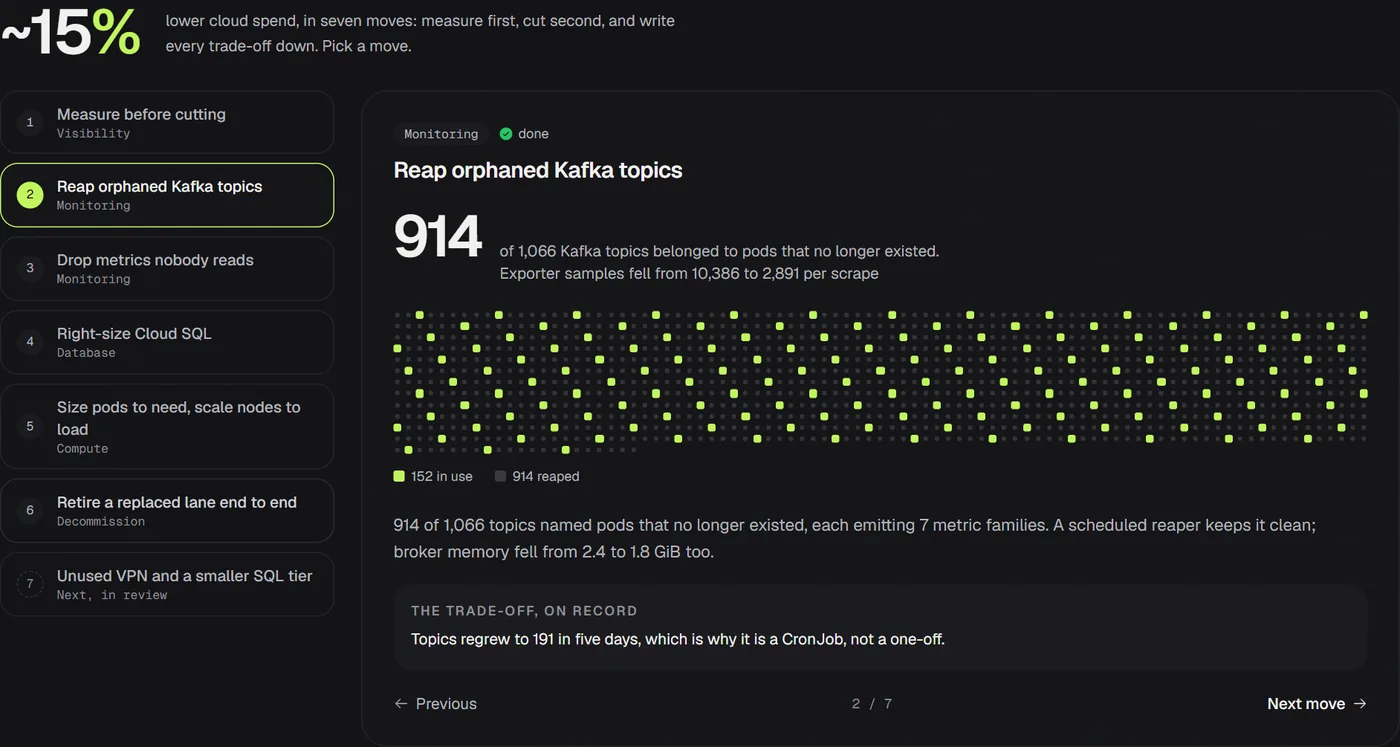
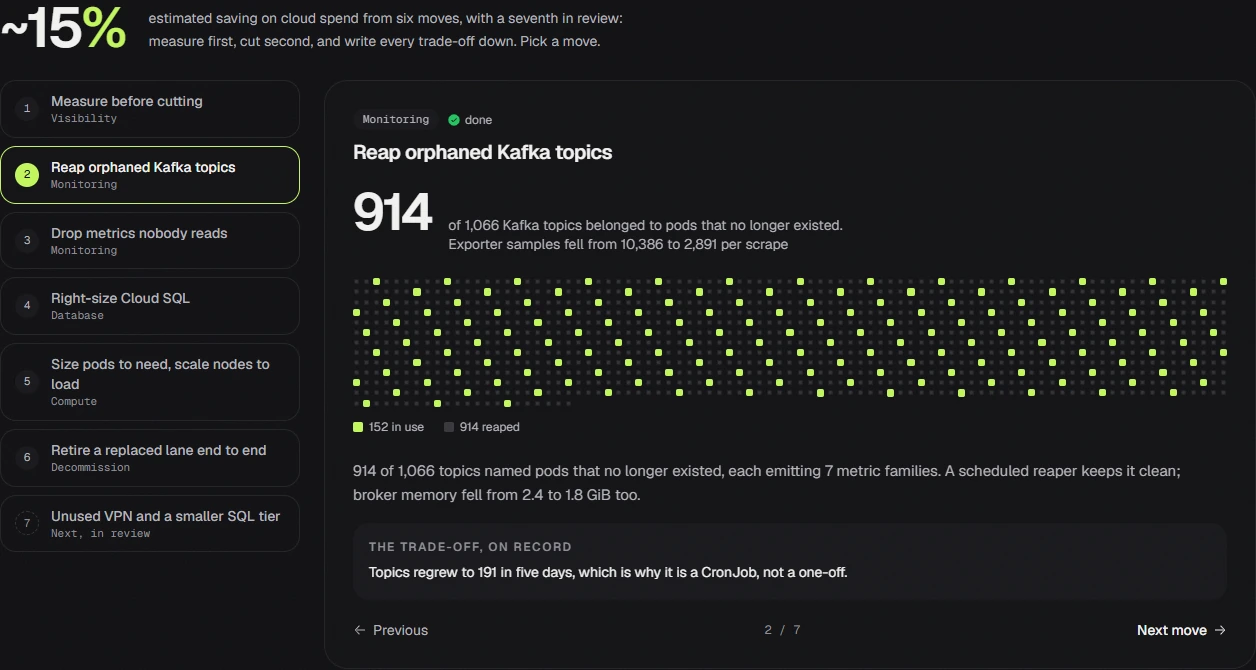
The ~15% cloud saving is an estimate, and the site says so
The ~15% comes from the cost review's estimate. The profile README
already calls it that ("cut its cloud spend by an estimated ~15%"), and
the site now matches it everywhere the number appears:

- The case study is "Cutting cloud spend by an estimated 15%"; its
  result, numbers and share card say estimated too.
- The home page's stat reads "lower cloud spend, as estimated in my cost
  review", which the IoT share card shows; the cost review leads with
  "estimated saving on cloud spend".
- Evidence: the claim says estimated, and the proof says the 15% is the
  review's estimate of what the cuts save.
- The write-up, the Ask facts (knowledge file and parity regenerated;
  only the cloud-bill answer's opening changed) and the README say "an
  estimated 15%". The six moves themselves are still stated as done.
- The README's case-page and cost-review screenshots are retaken from
  the current pages; the case page had been redesigned since its shot.

diff --git a/web/src/content/profile.ts b/web/src/content/profile.ts
@@ -18,7 +18,7 @@ export const profile = {
 export type Stat = { value: number; decimals?: number; prefix?: string; suffix?: string; label: string };
 
 export const stats: Stat[] = [
-  { value: 15, prefix: "~", suffix: "%", label: "cloud spend cut across monitoring, database and compute" },
+  { value: 15, prefix: "~", suffix: "%", label: "lower cloud spend, as estimated in my cost review" },
   { value: 169, label: "pull requests merged into a production IoT platform" },
   { value: 320, label: "long-horizon LLM agent runs benchmarked for my final-year project" },
   { value: 3.02, decimals: 2, suffix: "x", label: "throughput from running four isolated agent tasks at once" },
@@ -106,7 +106,7 @@ export const cases: CaseStudy[] = [
     products: ["iot"],
     org: "Primustech",
     year: "2026",
-    title: "Cutting cloud spend by ~15%",
+    title: "Cutting cloud spend by an estimated 15%",
     summary: "Measured first, then cut monitoring, database and compute, with every trade-off written down.",
     problem:
       "Nobody had measured where the money went. Managed Prometheus alone was about US$106 a month, the third-largest line item, and climbing with no matching growth in traffic.",
@@ -116,10 +116,10 @@ export const cases: CaseStudy[] = [
       "Right-sized Cloud SQL from 4 vCPU/16 GiB to 2 vCPU/12 GiB and moved it from regional HA to zonal, with the recovery trade-off documented.",
       "Cut Core API pod requests from 1 CPU/4 GiB to 0.5 CPU/3 GiB so pods pack onto fewer nodes, and retired a replaced ingestion lane end to end.",
     ],
-    result: "Cut cloud spend by about 15%, without dropping a single alert.",
+    result: "Cut cloud spend by an estimated 15%, without dropping a single alert.",
     stack: ["Managed Prometheus", "Kafka", "Kubernetes CronJob", "Cloud SQL", "GKE autoscaling", "Terraform"],
     numbers: [
-      { value: "~15%", label: "cloud spend cut, with no alert dropped" },
+      { value: "~15%", label: "estimated cut in cloud spend, with no alert dropped" },
       { value: "914", label: "orphaned Kafka topics reaped, 86% of all topics" },
       { value: "10,386 → 2,891", label: "samples per scrape from the Kafka exporter" },
     ],

diff --git a/web/src/content/knowledge.ts b/web/src/content/knowledge.ts
@@ -42,10 +42,10 @@ export function buildKnowledge(): Fact[] {
     href: "/evidence",
     title: "Numbers I can back up",
     anchor: "top",
-    lead: "The numbers behind my work, each from a pull-request history or a measurement:",
+    lead: "The numbers behind my work, from pull-request histories, measurements and one estimate:",
     text:
       `I have merged 169 pull requests into Primustech's production IoT platform, 4 into ARIES, the open-source agent-serving framework, and 21 into a robot-car project. ` +
-      `I cut cloud spend by about 15%, benchmarked 320 LLM agent runs, and measured a 3.02x throughput from running four isolated agent tasks at once.`,
+      `I cut cloud spend by an estimated 15%, benchmarked 320 LLM agent runs, and measured a 3.02x throughput from running four isolated agent tasks at once.`,
   });
 
   for (const c of cases) {
@@ -101,7 +101,7 @@ export function buildKnowledge(): Fact[] {
     id: "cost-review",
     title: "Cost review",
     anchor: "platform",
-    lead: "How I cut cloud spend by about 15%:",
+    lead: "How I cut cloud spend by an estimated 15%:",
     text: costReview.levers
       .map((l) => `${l.title} (${l.area}, ${l.status}): ${l.detail} ${l.guardrail.startsWith("sort_desc") ? "" : l.guardrail}`)
       .join(" "),

diff --git a/web/src/content/evidence.ts b/web/src/content/evidence.ts
@@ -201,10 +201,10 @@ export const claimGroups: ClaimGroup[] = [
         proof: "Counted from the private repository's pull request history under my GitHub account.",
       },
       {
-        claim: "Cloud spend cut by about 15%, including 914 orphaned Kafka topics removed and 40% fewer monitoring samples.",
+        claim: "Cloud spend cut by an estimated 15%, including 914 orphaned Kafka topics removed and 40% fewer monitoring samples.",
         seen: { label: "Cutting cloud spend", href: "/work/reaper" },
         kind: "private",
-        proof: "The cost review I wrote for the platform records each cut and its trade-off: 914 orphaned topics removed, 40% fewer samples per scrape, the database and pods resized. The case study gives each move with its before and after.",
+        proof: "The cost review I wrote for the platform records each cut and its trade-off: 914 orphaned topics removed, 40% fewer samples per scrape, the database and pods resized. The 15% is the review's estimate of what those cuts save. The case study gives each move with its before and after.",
       },
       {
         claim: "Three remote-control lanes are measured against one written safety pattern of ten principles, and the bridge that drives them has 431 tests.",

diff --git a/web/src/content/writing.ts b/web/src/content/writing.ts
@@ -178,7 +178,7 @@ export const posts: Post[] = [
     stats: [
       { value: "914", label: "orphaned Kafka topics, 86% of all topics" },
       { value: "-40%", label: "samples per scrape from dropping unread metrics" },
-      { value: "~15%", label: "cloud spend cut, with no alert dropped" },
+      { value: "~15%", label: "estimated cut in cloud spend, with no alert dropped" },
     ],
     body: [
       {
@@ -224,7 +224,7 @@ export const posts: Post[] = [
       },
       {
         kind: "p",
-        text: "Together that cut cloud spend by about 15%, and no alert was dropped. Another US$29 or so a month (an unused VPN gateway and one more Cloud SQL step) is going through a reviewed Terraform plan.",
+        text: "Together that cut cloud spend by an estimated 15%, and no alert was dropped. Another US$29 or so a month (an unused VPN gateway and one more Cloud SQL step) is going through a reviewed Terraform plan.",
       },
       { kind: "h2", text: "What I took from it" },
       {

diff --git a/web/src/components/platform/cost-review.tsx b/web/src/components/platform/cost-review.tsx
@@ -22,7 +22,7 @@ export function CostReview() {
           ~15<span className="text-accent-ink">%</span>
         </p>
         <p className="max-w-[52ch] pb-1 text-sm leading-relaxed text-ink-2">
-          lower cloud spend from six moves, with a seventh in review: measure first, cut second, and write every trade-off down. Pick a move.
+          estimated saving on cloud spend from six moves, with a seventh in review: measure first, cut second, and write every trade-off down. Pick a move.
         </p>
       </div>
 

diff --git a/README.md b/README.md
@@ -39,7 +39,7 @@ server with one bug planted in it, real traffic, and a check that grades the fix
 |---|---|
 | **Follow a request** through the AI agent platform: agents, RAG, GPU reranker, models, traces, and which parts are mine. | **SLOs and error budgets** for the IoT platform, with multi-window burn-rate alerts and a replayable incident. |
 | ![A Langfuse-style trace of one agent request](docs/screenshots/request-trace.webp) | ![The cost review as seven moves](docs/screenshots/cost-review.webp) |
-| **Inside one request**: where an agent answer's time and tokens go. | **Cost review**: a ~15% cut in seven moves, each with its before and after and the trade-off on record. |
+| **Inside one request**: where an agent answer's time and tokens go. | **Cost review**: an estimated 15% off cloud spend from six moves, with a seventh in review, each with its before and after and the trade-off on record. |
 | [![A case study page: the numbers, then the working model](docs/screenshots/case-page.webp)](https://portfolio-emsghin2iq-as.a.run.app/work/reaper) | [![A postmortem page: impact in numbers, then the write-up](docs/screenshots/postmortem.webp)](https://portfolio-emsghin2iq-as.a.run.app/postmortems/contact-form) |
 | **A page per case study** (`/work/<case>`): the numbers, the same working model, the full write-up, and links into the deeper sections. | **Postmortems** (`/postmortems/<slug>`): blameless write-ups of what went wrong running this site, with times and counts from the commits, the CI history and Cloud Run's request logs. |
 | [![The on-call drill, paged and investigating](docs/screenshots/oncall-drill.webp)](https://portfolio-emsghin2iq-as.a.run.app/oncall) | [![DORA metrics for this site, from its own deploy history](docs/screenshots/delivery.webp)](https://portfolio-emsghin2iq-as.a.run.app/status) |
